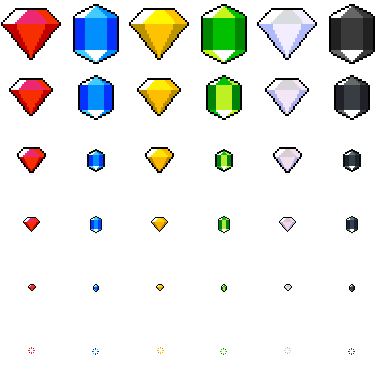
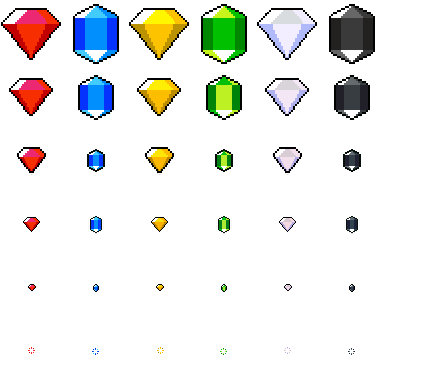
added empty state to crystals-animate, crystals now animate on dying and move to top of grid

diff --git a/public/game_js/entities/grid.js b/public/game_js/entities/grid.js
@@ -3,7 +3,7 @@ game.Grid = me.Container.extend({
     this.COLS = cols;
     this.ROWS = rows;
     this.board = [];
-    this.hasEmpties = false;
+    this.dead = 0;
     this._super(me.Container, 'init', [me.game.viewport.width / 3.5, 100, this.COLS * game.Tile.width - game.Tile.width / 2, this.ROWS * game.Tile.width - game.Tile.width / 2]);
   },
 
@@ -14,7 +14,7 @@ game.Grid = me.Container.extend({
       this.clearTiles({ pattern: 'row', end: { col: 3, row: 3 }, count: 3 });
     }
 
-    if(this.hasEmpties) {
+    if(this.dead >= 3) {
       this.shiftEmpties();
     }
 
@@ -119,15 +119,14 @@ game.Grid = me.Container.extend({
     if(object.pattern == 'row') {
       var row = this.getRow(object.end.row);
       for(var i = object.end.col; i > object.end.col - object.count; i--) {
-        row[i].setCrystal(6);
+        row[i].vanishCrystal();
       }
     } else {
       var col = this.getCol(object.end.col);
       for(var i = object.end.row; i > object.end.row - object.count; i--) {
-        col[i].setCrystal(6);
+        col[i].vanishCrystal();
       }
     }
-    this.hasEmpties = true;
   },
 
   shiftEmpties: function() {
@@ -138,15 +137,17 @@ game.Grid = me.Container.extend({
       col = this.getCol(i);
       for(var j = 1; j < this.ROWS; j++) {
         //swap upwards if empty
-        if(col[j].type == 6) {
-          temp = col[j-1].type; 
-          col[j-1].setCrystal(col[j].type);
-          col[j].setCrystal(temp);
+        if(!col[j].alive) {
+          col[j].setCrystal(col[j-1].type);
+          col[j].alive = true;
+          col[j-1].setCrystal(6);
+          col[j-1].alive = false;
           swapped = true;
         }
       }
     }
-
-    this.hasEmpties = swapped;
+    if(!swapped) {
+      this.dead--;
+    }
   }
 });

diff --git a/public/game_js/entities/tile.js b/public/game_js/entities/tile.js
@@ -1,7 +1,7 @@
 game.Tile = me.DraggableEntity.extend({
   init: function(x, y, type, col, row) {
     var settings = {};
-    settings.image = 'crystals-lg';
+    settings.image = 'crystals-animate';
     settings.width = game.Tile.width;
     settings.height = game.Tile.height;
 
@@ -15,6 +15,7 @@ game.Tile = me.DraggableEntity.extend({
     this.mousePos = me.input.mouse.pos;
     this.grabbed = false;
     this.moved = false;
+    this.matched = false;
 
     this.col = col;
     this.row = row;
@@ -68,7 +69,25 @@ game.Tile = me.DraggableEntity.extend({
   setCrystal: function(type) {
     this.type = type;
     this.renderable.addAnimation('idle', [type]); 
+    this.renderable.addAnimation('vanish', [type, type + 7, type + 14, type + 21, type + 28, type + 35], 75); 
+    this.renderable.addAnimation('appear', [type + 35, type + 28, type + 21, type + 14, type + 7, type], 75); 
     this.renderable.setCurrentAnimation('idle');
+  },
+
+  vanishCrystal: function() {
+    var tile = this;
+    this.renderable.setCurrentAnimation('vanish', function() {
+      game.playScreen.grid.dead++;
+      tile.alive = false;
+      return false;
+    });
+  },
+
+  appearCrystal: function() {
+    this.renderable.setCurrentAnimation('appear', function() {
+      return false;
+      this.renderable.setCurrentAnimation('idle');
+    });
   },
 
   moveHorizontal: function(right) {

diff --git a/public/game_js/resources.js b/public/game_js/resources.js
@@ -10,6 +10,11 @@ game.resources = [
         "src": "data/img/crystals.png"
     },
     {
+        "name": "crystals-animate",
+        "type": "image",
+        "src": "data/img/crystals-animate.png"
+    },
+    {
         "name": "characters",
         "type": "image",
         "src": "data/img/characters.png"

diff --git a/public/game_js/game.js b/public/game_js/game.js
@@ -3,7 +3,8 @@ var game = {
 
     // an object where to store game information
     data : {
-        score : 0
+      //set which player is connected
+      player: 1
     },
 
 
